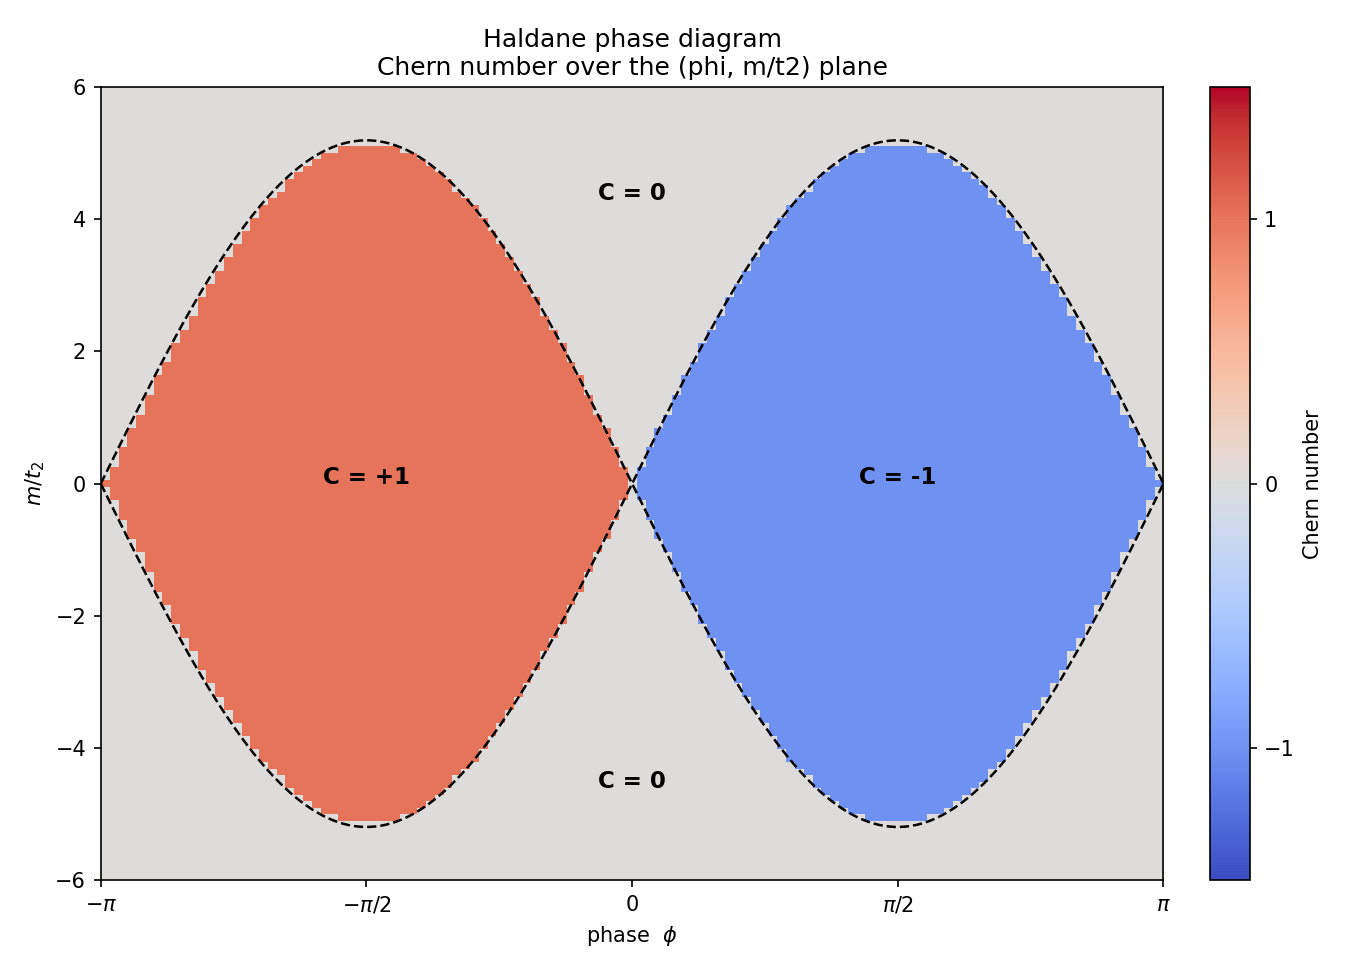
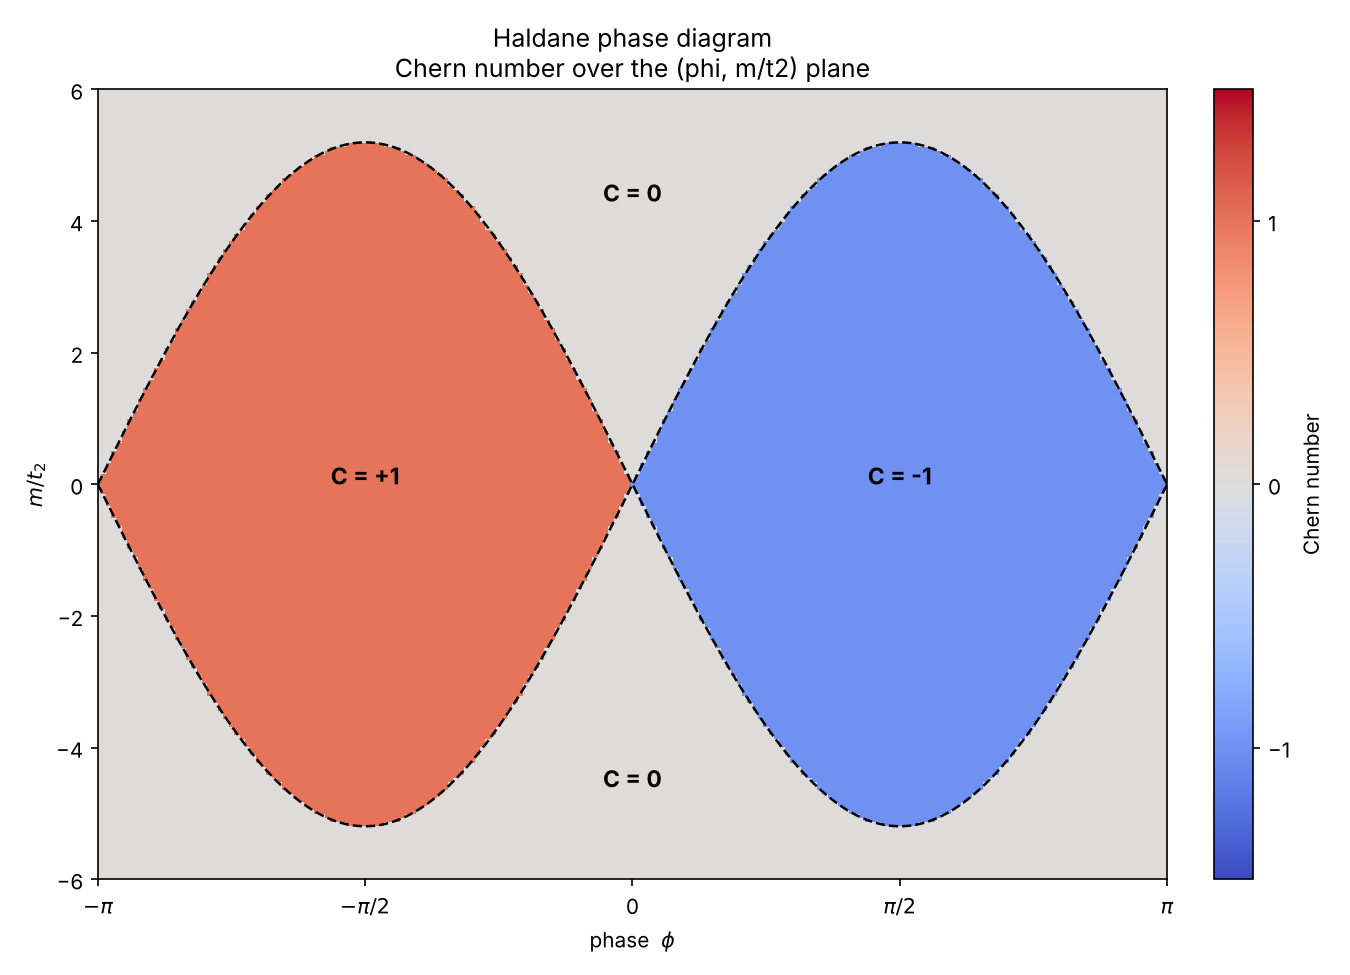
Fix misleading figures and regenerate them
- berry_curvature.png: the red/blue colormap was not centered on zero, so in
  the u = -1 panel almost-entirely negative curvature showed up as deep red,
  and in u = -3 zero curvature showed up as blue. The scale is now symmetric,
  so white = zero and the colors match the sign.
- edge_bands.png: the main title overlapped the panel titles, and the trivial
  panel said "no edge bands" while clearly showing edge-localized bands. It
  now says they stay out of the gap, which is the actual point.
- haldane_phase_diagram.png: higher resolution (201 x 201), and each pixel is
  centered on the point it was computed at, so the lobes line up with the
  dashed analytic boundaries instead of sitting half a pixel inside them.
  Same alignment fix in the explore_haldane.py background.
- bands.png: panels share a y-axis so the gap sizes can be compared directly.

diff --git a/run_edge_states.py b/run_edge_states.py
@@ -8,7 +8,8 @@ Produces:
   figures/edge_bands.png
     Ribbon band structures side by side. Left: a topological ribbon (bulk C = -1)
     whose gap is bridged by edge bands, colored by which edge they live on. Right:
-    a trivial ribbon (C = 0) with a clean, empty gap. The count of gap-crossing
+    a trivial ribbon (C = 0): edge-localized bands can exist, but none cross
+    the gap. The count of gap-crossing
     branches equals 2*|C|, and each branch is confirmed to be edge-localized by
     its color.
 
@@ -62,7 +63,7 @@ def plot_edge_bands():
     _colored_bands(axes[0], ks_t, E_t, pol_t,
                    "Topological ribbon (bulk C = -1)\nedge bands cross the gap")
     _colored_bands(axes[1], ks_v, E_v, pol_v,
-                   "Trivial ribbon (C = 0)\nclean gap, no edge bands")
+                   "Trivial ribbon (C = 0)\nedge bands stay out of the gap")
     axes[0].set_ylabel("energy")
 
     sm = plt.cm.ScalarMappable(cmap="coolwarm", norm=plt.Normalize(-1, 1))
@@ -70,7 +71,7 @@ def plot_edge_bands():
     cbar = fig.colorbar(sm, ax=axes, fraction=0.04, pad=0.03)
     cbar.set_label("edge localization  (one edge  <->  other edge)")
 
-    fig.suptitle("Bulk-boundary correspondence in the Haldane model", fontsize=13)
+    fig.suptitle("Bulk-boundary correspondence in the Haldane model", fontsize=13, y=1.03)
     os.makedirs("figures", exist_ok=True)
     fig.savefig("figures/edge_bands.png", dpi=150, bbox_inches="tight")
     print("Saved figures/edge_bands.png")

diff --git a/run_haldane.py b/run_haldane.py
@@ -62,7 +62,7 @@ def plot_bands():
 
 
 def plot_phase_diagram():
-    n_phi, n_m = 121, 121
+    n_phi, n_m = 201, 201
     phis = np.linspace(-np.pi, np.pi, n_phi)
     m_over_t2 = np.linspace(-6.0, 6.0, n_m)
 
@@ -74,8 +74,10 @@ def plot_phase_diagram():
             C[b, a] = round(chern_number(H))
 
     fig, ax = plt.subplots(figsize=(9, 6.5))
+    # Each pixel is centered on the (phi, m/t2) point it was computed at.
+    dphi, dm = phis[1] - phis[0], m_over_t2[1] - m_over_t2[0]
     im = ax.imshow(C, origin="lower", aspect="auto",
-                   extent=[-np.pi, np.pi, -6, 6],
+                   extent=[-np.pi - dphi / 2, np.pi + dphi / 2, -6 - dm / 2, 6 + dm / 2],
                    cmap="coolwarm", vmin=-1.5, vmax=1.5)
 
     # Analytic phase boundaries m/t2 = +/- 3 sqrt(3) sin(phi).
@@ -86,6 +88,8 @@ def plot_phase_diagram():
     ax.set_xlabel(r"phase  $\phi$")
     ax.set_ylabel(r"$m / t_2$")
     ax.set_title("Haldane phase diagram\nChern number over the (phi, m/t2) plane")
+    ax.set_xlim(-np.pi, np.pi)
+    ax.set_ylim(-6, 6)
     ax.set_xticks([-np.pi, -np.pi / 2, 0, np.pi / 2, np.pi])
     ax.set_xticklabels([r"$-\pi$", r"$-\pi/2$", "0", r"$\pi/2$", r"$\pi$"])
     cbar = fig.colorbar(im, ax=ax, ticks=[-1, 0, 1], fraction=0.046, pad=0.04)

diff --git a/explore_haldane.py b/explore_haldane.py
@@ -91,8 +91,12 @@ slider_t2 = Slider(ax_t2, "hopping  t2", 0.02, 0.30, valinit=0.15, valstep=0.01,
                    color="#6b7280")
 
 # Static phase-diagram background.
-ax_phase.imshow(PD_C, origin="lower", aspect="auto", extent=[-np.pi, np.pi, -6, 6],
+_dphi, _dm = PD_PHI[1] - PD_PHI[0], PD_MR[1] - PD_MR[0]   # center pixels on samples
+ax_phase.imshow(PD_C, origin="lower", aspect="auto",
+                extent=[-np.pi - _dphi / 2, np.pi + _dphi / 2, -6 - _dm / 2, 6 + _dm / 2],
                 cmap="coolwarm", vmin=-1.5, vmax=1.5)
+ax_phase.set_xlim(-np.pi, np.pi)
+ax_phase.set_ylim(-6, 6)
 _fine = np.linspace(-np.pi, np.pi, 400)
 ax_phase.plot(_fine, 3 * np.sqrt(3) * np.sin(_fine), "k--", lw=1)
 ax_phase.plot(_fine, -3 * np.sqrt(3) * np.sin(_fine), "k--", lw=1)

diff --git a/run_chern.py b/run_chern.py
@@ -36,8 +36,10 @@ def main():
         H = qwz_hamiltonian_grid(KX, KY, u)
         F = berry_curvature_field(H)
         C = F.sum() / (2 * np.pi)
-        im = ax.imshow((F / area).T, origin="lower", extent=extent,
-                       cmap="RdBu_r", aspect="equal")
+        density = F / area
+        vmax = np.abs(density).max()   # symmetric, so white = zero curvature
+        im = ax.imshow(density.T, origin="lower", extent=extent,
+                       cmap="RdBu_r", aspect="equal", vmin=-vmax, vmax=vmax)
         ax.set_title(f"u = {u:+.0f}   ->   C = {round(C):+d}")
         ax.set_xlabel(r"$k_x$")
         ax.set_ylabel(r"$k_y$")

diff --git a/run_bands.py b/run_bands.py
@@ -20,7 +20,7 @@ def main():
     idx = np.arange(len(kxs))
     u_values = [-3.0, -2.0, -1.0, 1.0]
 
-    fig, axes = plt.subplots(2, 2, figsize=(10, 8), sharex=True)
+    fig, axes = plt.subplots(2, 2, figsize=(10, 8), sharex=True, sharey=True)
     for ax, u in zip(axes.flat, u_values):
         lower, upper = [], []
         for kx, ky in zip(kxs, kys):
